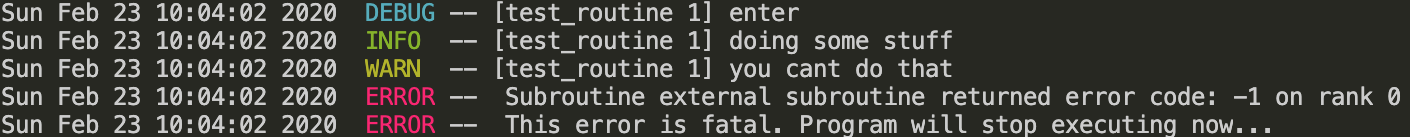
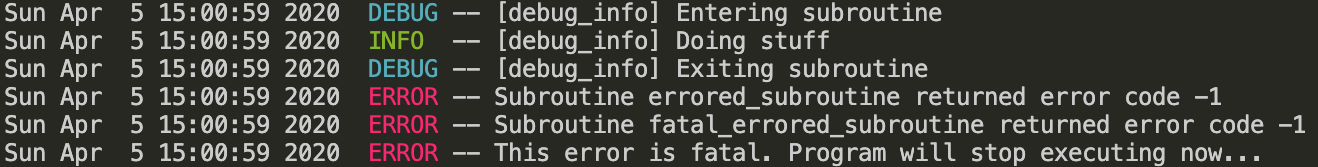
Version 0.4
- passing error code to write_message subroutine
- added mpi building modes to fobos
- updated README

diff --git a/README.md b/README.md
@@ -11,23 +11,56 @@
 - Support of 4 logging levels
 - CLI Support for runtime change of logging level
 
-## Example of usage
+## Installation
+The only currently possible way to install library is with [FoBiS.py](https://github.com/szaghi/FoBiS). 
+
+### Supported build modes
+#### Static libraries
+- static-gnu
+- static-gnu-mpi
+- static-gnu-debug
+- static-gnu-mpi-debug
+- static-intel
+- static-intel-mpi
+- static-intel-debug
+- static-intel-mpi-debug
+#### Shared libraries
+- shared-gnu
+- shared-gnu-mpi
+- shared-gnu-debug
+- shared-gnu-mpi-debug
+- shared-intel
+- shared-intel-mpi
+- shared-intel-debug
+- shared-intel-mpi-debug
+
+
+```bash
+git clone https://github.com/ShatrovOA/Fortran-Logger
+cd Fortran-Logger
+FoBiS.py build -mode static-gnu-mpi
+```
+
+## Examples
 
 ```fortran
-use fortran_logger_m, only : fortran_logger
-implicit none
-  type(fortran_logger) :: logger
+use fortran_logger, only : fortran_logger_t
+  type(fortran_logger_t) :: logger
+  integer(I4P) :: error
 
   call logger%initialize(log_level = 4, print_timestamp = .true.)
 
-  call logger%debug(routine = 'test_routine 1', message = 'enter')
+  call debug_info(logger)
 
-  call logger%info(routine = 'test_routine 1', message = 'doing some stuff')
+  ! Calling external subroutine, which generates non-zero error code
+  call errored_subroutine(error)
+  call logger%check_error(check_routine = 'errored_subroutine', err = error)
 
-  call logger%warn(routine = 'test_routine 1', message = "you can't do that")
+  ! Let's call the same subroutine, but this time non-zero code will be fatal
+  call errored_subroutine(error)
+  call logger%check_error(check_routine = 'fatal_errored_subroutine', err = error, is_fatal = .true.)
 
-  ierror = -1
-  call logger%check_error(check_routine = 'external subroutine', err = ierror, is_fatal = .true.)
+  call logger%info(message = 'Finished')
 
   call logger%finalize()
 ```
@@ -36,7 +69,33 @@ This example will produce the following output:
 
 ![Sample Output](./doc/sample_output.png)
 
-## Installation
+```fortran
+use fortran_logger, only : fortran_logger_t
+  type(fortran_logger_t) :: logger
+  integer(I4P) :: error
+
+  ! MPI_Init must be called before logger%initialize. Otherwise runtime error will occur
+  call MPI_Init()
+
+  call logger%initialize(log_level = 4, print_timestamp = .true.)
+
+  call debug_info(logger)
+
+  ! Calling external subroutine, which generates non-zero error code
+  call errored_subroutine(error)
+  call logger%check_error(check_routine = 'errored_subroutine', err = error)
+
+  ! Let's call the same subroutine, but this time non-zero code will be fatal
+  call errored_subroutine(error)
+  call logger%check_error(check_routine = 'fatal_errored_subroutine', err = error, is_fatal = .true.)
+    
+  call logger%info(message = 'Finished')
+    
+  call logger%finalize()
+
+  call MPI_Finalize()
+```
+
+![Sample Output](./doc/sample_output_mpi.png)
 
 
-## API
